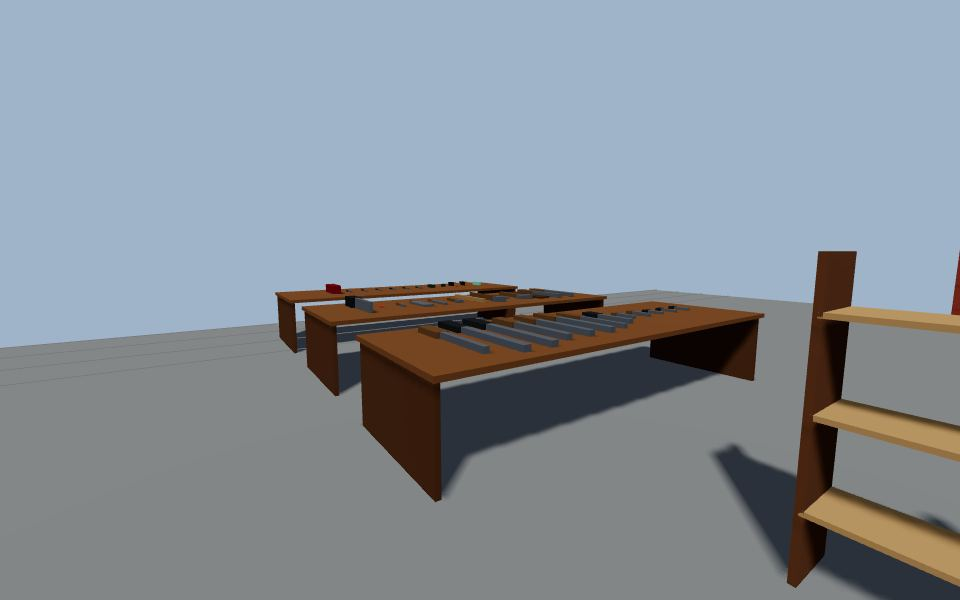
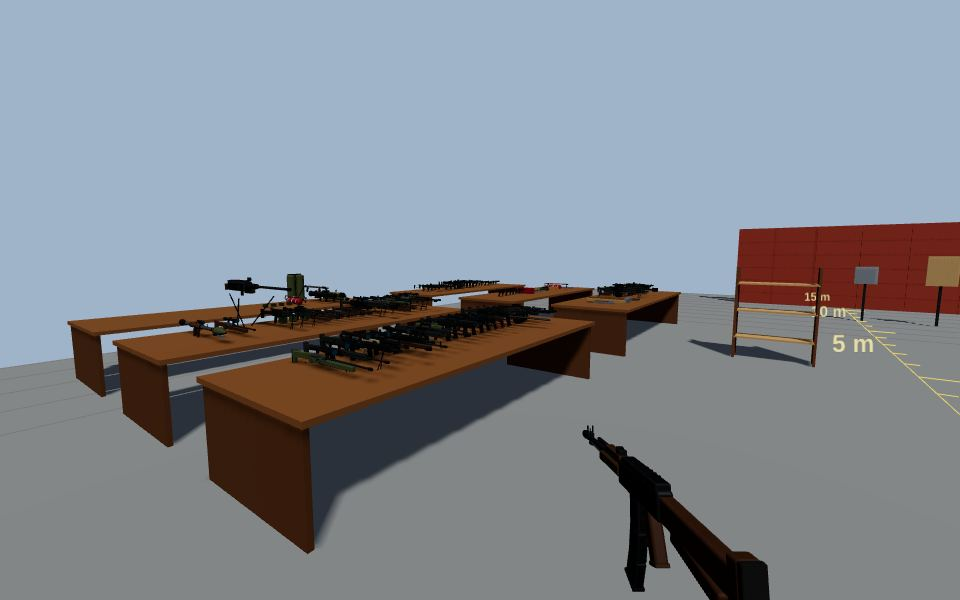
feat(site,examples): área de armas com os controles novos, 121 armas, explosivos e miniatura nova
Texto de controles (H, clique, R, Q, X, B, Y, E, G), vitrine com a reação em cadeia e a bancada, e
capture-thumbs.mjs ganha --only=<exemplo> para regravar só uma miniatura.

Changed region(s): [[0.0, 0.36, 1.0, 1.0], [0.9375, 0.6, 0.9688, 0.63]]

diff --git a/examples/weapons-test-area/src/entry.js b/examples/weapons-test-area/src/entry.js
@@ -1,6 +1,7 @@
 // Bundle entry (IIFE global `WeaponsArea`): the weapons module of @adatechnology/game-weapons-three, ready for any room page:
 // `WeaponsArea.loadInto(room)` loads it and opens its area.
-// Controls: aim at a weapon and press H to equip it, click fires, R reloads, Q changes the fire mode (burst), X clears a jam, B turns the safety on and off, E grabs.
+// Controls: aim at a weapon and press H to equip it, click fires or throws, R reloads, Q changes the fire mode (burst), X clears a jam, B turns the safety on and off,
+// Y detonates the charges set down (Claymore, C4), E grabs, G throws what is held. The fuel barrels, the propane cylinder and the car tank stand in the east corner.
 import { createWeaponsTestModule } from '@adatechnology/game-weapons-three'
 
 export { createWeaponsTestModule }
